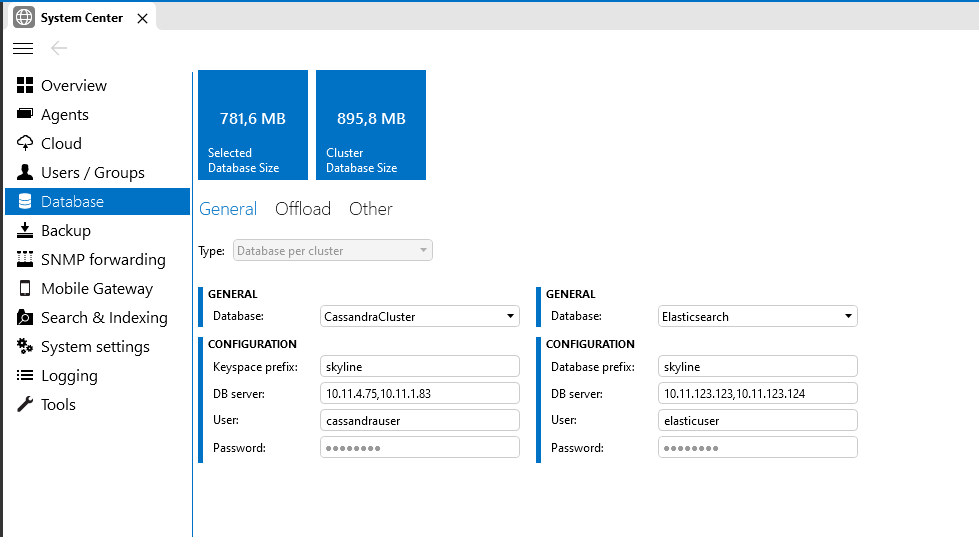
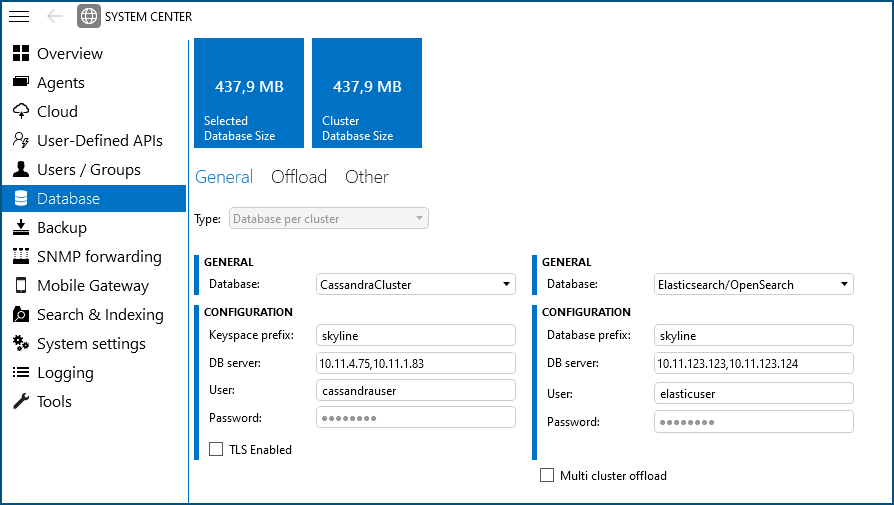
Changes in PR 1732

diff --git a/user-guide/Reference/Skyline_DataMiner_Folder/More_information_on_certain_files_and_folders/DB_xml.md b/user-guide/Reference/Skyline_DataMiner_Folder/More_information_on_certain_files_and_folders/DB_xml.md
@@ -172,28 +172,30 @@ If Cassandra still cannot be reached after SLDataGateway has tried to connect fo
 
 From DataMiner 10.2.0/10.1.3 onwards, it is possible to enable TLS on a Cassandra database connection.
 
-To do so
+- From DataMiner 10.3.10/10.4.0 onwards<!-- RN 36399 -->, you can configure this setting in Cube. See [Cassandra cluster database](xref:Configuring_the_database_settings_in_Cube#cassandra-cluster-database).
 
-1. Enable TLS in the settings of the Cassandra database itself.
+- Prior to DataMiner 10.3.10/10.4.0 onwards:
 
-1. Enable TLS in the settings of the relevant database in DB.xml. For example:
+  1. Enable TLS in the settings of the Cassandra database itself.
 
-    ```xml
-    <DataBase active="true" local="true" type="Cassandra">
-     <DBServer>10.10.10.10</DBServer>
-     <UID>myUserId</UID>
-     <PWD>myPassword</PWD>
-     <DB>SLDMADB</DB>
-     <TLSEnabled>true</TLSEnabled>
-    </DataBase>
-    ```
+  1. Enable TLS in the settings of the relevant database in DB.xml. For example:
 
-> [!NOTE]
->
-> - This procedure only enables TLS on the database connection. It does not enable client authentication.
-> - From DataMiner 10.1.3 onwards TLS 1.0 is supported. From DataMiner 10.2.4/10.2.0-CU1 onwards, TLS 1.0, 1.1 and 1.2 are supported.
-> - When Cassandra is hosted on the local DataMiner server, and DataMiner Failover is active, Cassandra will use TCP port 7001 for TLS encrypted inter-node communication (instead of port 7000). Make sure this port is allowed through the firewall of both Failover agents.
-> - This setting is also needed to use an [Azure Managed Instance for Apache Cassandra](xref:Azure_Managed_Instance_for_Apache_Cassandra).
+     ```xml
+     <DataBase active="true" local="true" type="Cassandra">
+      <DBServer>10.10.10.10</DBServer>
+      <UID>myUserId</UID>
+      <PWD>myPassword</PWD>
+      <DB>SLDMADB</DB>
+      <TLSEnabled>true</TLSEnabled>
+     </DataBase>
+     ```
+
+  > [!NOTE]
+  >
+  > - This procedure only enables TLS on the database connection. It does not enable client authentication.
+  > - From DataMiner 10.1.3 onwards TLS 1.0 is supported. From DataMiner 10.2.4/10.2.0-CU1 onwards, TLS 1.0, 1.1 and 1.2 are supported.
+  > - When Cassandra is hosted on the local DataMiner server, and DataMiner Failover is active, Cassandra will use TCP port 7001 for TLS encrypted inter-node communication (instead of port 7000). Make sure this port is allowed through the firewall of both Failover agents.
+  > - This setting is also needed to use an [Azure Managed Instance for Apache Cassandra](xref:Azure_Managed_Instance_for_Apache_Cassandra).
 
 ### Configuring the consistency level of Cassandra in a Cassandra Cluster database
 

diff --git a/user-guide/Advanced_Functionality/Databases/Configuring_dedicated_clustered_storage/Database_Configuration/Configuring_the_database_settings_in_Cube.md b/user-guide/Advanced_Functionality/Databases/Configuring_dedicated_clustered_storage/Database_Configuration/Configuring_the_database_settings_in_Cube.md
@@ -54,7 +54,9 @@ For a Cassandra cluster database (i.e. one Cassandra cluster that is used as the
 
    - **Password**: The password with which the DMA has to log on to Elasticsearch (if applicable).
 
-   ![Cube Cassandra Cluster Configuration](~/user-guide/images/CassandraCluster_CubeConfig.png)
+1. From DataMiner 10.3.10/10.4.0 onwards<!-- RN 36399 -->, you can enable TLS by selecting the checkbox next to *TLS Enabled*.
+
+   ![Cube Cassandra Cluster Configuration](~/user-guide/images/CassandraCluster_CubeConfig.png)<br>*DataMiner 10.3.10 example configuration*
 
 1. Click *Save*.
 

diff --git a/user-guide/Advanced_Functionality/Databases/Indexing_database/Elasticsearch/dedicated_clustered_storage/Configuring_database/Configuring_multiple_Elasticsearch_clusters.md b/user-guide/Advanced_Functionality/Databases/Indexing_database/Elasticsearch/dedicated_clustered_storage/Configuring_database/Configuring_multiple_Elasticsearch_clusters.md
@@ -54,7 +54,7 @@ To configure this setup:
 
    - **File Offload Identifier**: String used to identify this connection. Each connection should have a different identifier, which will be used for file offloads.
 
-   ![Configuration](~/user-guide/images/DBOffload_CubeConfig.png)
+   ![Configuration](~/user-guide/images/DBOffload_CubeConfig.png)<br/>*DataMiner 10.3.10 example configuration*
 
 1. Click *Save*.
 
